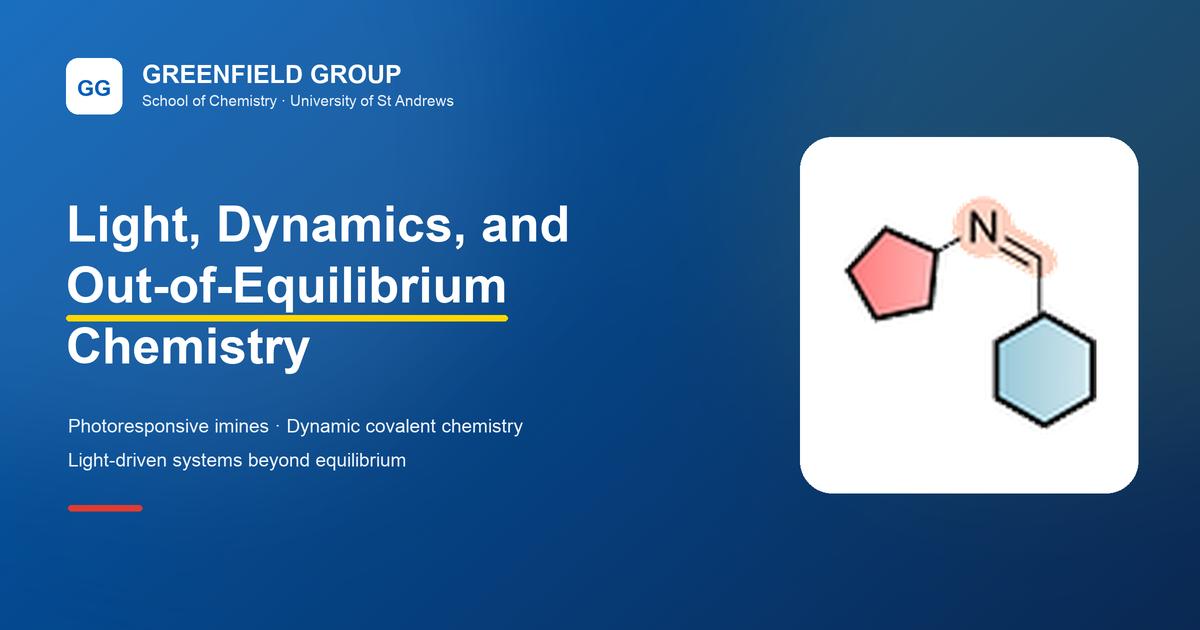
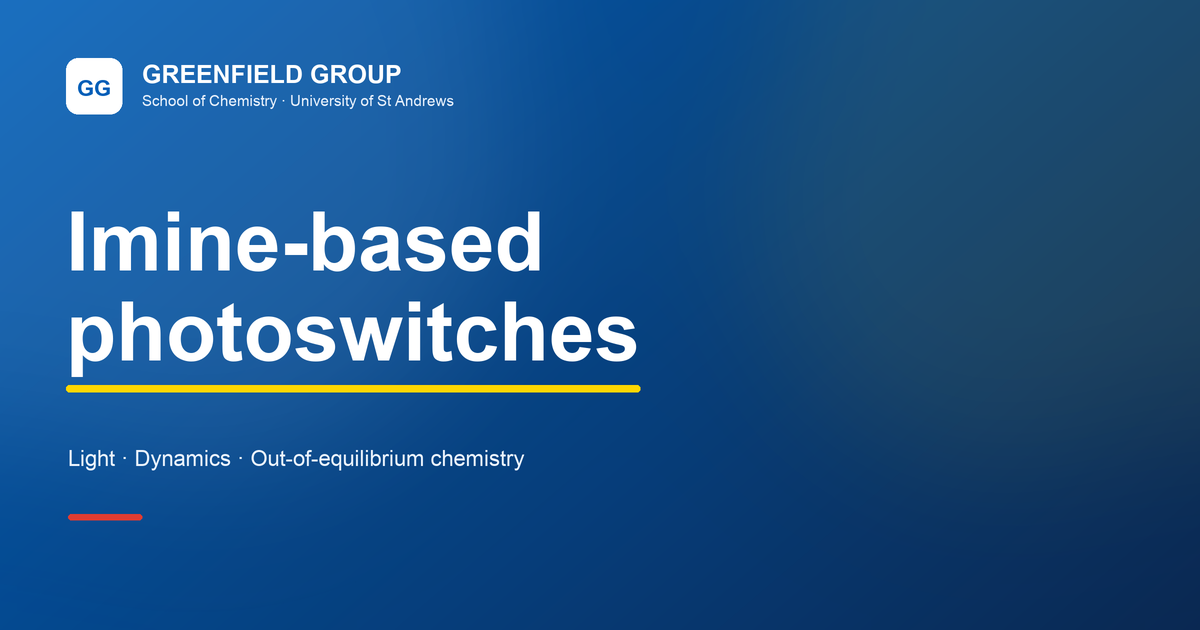
Simplify social preview

diff --git a/research.html b/research.html
@@ -14,12 +14,12 @@
   <meta property="og:image" content="https://imineswitch.com/og.png">
   <meta property="og:image:width" content="1200">
   <meta property="og:image:height" content="630">
-  <meta property="og:image:alt" content="Greenfield Group — Light, Dynamics, and Out-of-Equilibrium Chemistry">
+  <meta property="og:image:alt" content="Greenfield Group — Imine-based photoswitches">
   <meta name="twitter:card" content="summary_large_image">
   <meta name="twitter:title" content="Research — Greenfield Group">
   <meta name="twitter:description" content="Explore Greenfield Group research in imine photoswitches, out-of-equilibrium systems, and controlled molecular assembly.">
   <meta name="twitter:image" content="https://imineswitch.com/og.png">
-  <meta name="twitter:image:alt" content="Greenfield Group — Light, Dynamics, and Out-of-Equilibrium Chemistry">
+  <meta name="twitter:image:alt" content="Greenfield Group — Imine-based photoswitches">
   <link rel="icon" type="image/png" href="favicon.png?v=2">
   <script src="theme.js"></script>
   <link rel="stylesheet" href="styles.css?v=4">

diff --git a/covers.html b/covers.html
@@ -14,12 +14,12 @@
   <meta property="og:image" content="https://imineswitch.com/og.png">
   <meta property="og:image:width" content="1200">
   <meta property="og:image:height" content="630">
-  <meta property="og:image:alt" content="Greenfield Group — Light, Dynamics, and Out-of-Equilibrium Chemistry">
+  <meta property="og:image:alt" content="Greenfield Group — Imine-based photoswitches">
   <meta name="twitter:card" content="summary_large_image">
   <meta name="twitter:title" content="Covers &amp; Art — Greenfield Group">
   <meta name="twitter:description" content="Journal covers, graphics, posters, and scientific artwork created by members of the Greenfield Group.">
   <meta name="twitter:image" content="https://imineswitch.com/og.png">
-  <meta name="twitter:image:alt" content="Greenfield Group — Light, Dynamics, and Out-of-Equilibrium Chemistry">
+  <meta name="twitter:image:alt" content="Greenfield Group — Imine-based photoswitches">
   <link rel="icon" type="image/png" href="favicon.png?v=2">
   <script src="theme.js"></script>
   <link rel="stylesheet" href="styles.css?v=4">

diff --git a/join.html b/join.html
@@ -14,12 +14,12 @@
   <meta property="og:image" content="https://imineswitch.com/og.png">
   <meta property="og:image:width" content="1200">
   <meta property="og:image:height" content="630">
-  <meta property="og:image:alt" content="Greenfield Group — Light, Dynamics, and Out-of-Equilibrium Chemistry">
+  <meta property="og:image:alt" content="Greenfield Group — Imine-based photoswitches">
   <meta name="twitter:card" content="summary_large_image">
   <meta name="twitter:title" content="Join Us — Greenfield Group">
   <meta name="twitter:description" content="Information about PhD, postdoctoral, Masters, and visiting-student opportunities with the Greenfield Group.">
   <meta name="twitter:image" content="https://imineswitch.com/og.png">
-  <meta name="twitter:image:alt" content="Greenfield Group — Light, Dynamics, and Out-of-Equilibrium Chemistry">
+  <meta name="twitter:image:alt" content="Greenfield Group — Imine-based photoswitches">
   <link rel="icon" type="image/png" href="favicon.png?v=2">
   <script src="theme.js"></script>
   <link rel="stylesheet" href="styles.css?v=4">

diff --git a/people.html b/people.html
@@ -14,12 +14,12 @@
   <meta property="og:image" content="https://imineswitch.com/og.png">
   <meta property="og:image:width" content="1200">
   <meta property="og:image:height" content="630">
-  <meta property="og:image:alt" content="Greenfield Group — Light, Dynamics, and Out-of-Equilibrium Chemistry">
+  <meta property="og:image:alt" content="Greenfield Group — Imine-based photoswitches">
   <meta name="twitter:card" content="summary_large_image">
   <meta name="twitter:title" content="People — Greenfield Group">
   <meta name="twitter:description" content="Meet the researchers and collaborators in the Greenfield Group at the University of St Andrews.">
   <meta name="twitter:image" content="https://imineswitch.com/og.png">
-  <meta name="twitter:image:alt" content="Greenfield Group — Light, Dynamics, and Out-of-Equilibrium Chemistry">
+  <meta name="twitter:image:alt" content="Greenfield Group — Imine-based photoswitches">
   <link rel="icon" type="image/png" href="favicon.png?v=2">
   <script src="theme.js"></script>
   <link rel="stylesheet" href="styles.css?v=4">

diff --git a/contact.html b/contact.html
@@ -14,12 +14,12 @@
   <meta property="og:image" content="https://imineswitch.com/og.png">
   <meta property="og:image:width" content="1200">
   <meta property="og:image:height" content="630">
-  <meta property="og:image:alt" content="Greenfield Group — Light, Dynamics, and Out-of-Equilibrium Chemistry">
+  <meta property="og:image:alt" content="Greenfield Group — Imine-based photoswitches">
   <meta name="twitter:card" content="summary_large_image">
   <meta name="twitter:title" content="Contact — Greenfield Group">
   <meta name="twitter:description" content="Contact the Greenfield Group in the School of Chemistry at the University of St Andrews.">
   <meta name="twitter:image" content="https://imineswitch.com/og.png">
-  <meta name="twitter:image:alt" content="Greenfield Group — Light, Dynamics, and Out-of-Equilibrium Chemistry">
+  <meta name="twitter:image:alt" content="Greenfield Group — Imine-based photoswitches">
   <link rel="icon" type="image/png" href="favicon.png?v=2">
   <script src="theme.js"></script>
   <link rel="stylesheet" href="styles.css?v=4">

diff --git a/news.html b/news.html
@@ -14,12 +14,12 @@
   <meta property="og:image" content="https://imineswitch.com/og.png">
   <meta property="og:image:width" content="1200">
   <meta property="og:image:height" content="630">
-  <meta property="og:image:alt" content="Greenfield Group — Light, Dynamics, and Out-of-Equilibrium Chemistry">
+  <meta property="og:image:alt" content="Greenfield Group — Imine-based photoswitches">
   <meta name="twitter:card" content="summary_large_image">
   <meta name="twitter:title" content="News — Greenfield Group">
   <meta name="twitter:description" content="News, awards, publications, talks, and other updates from the Greenfield Group.">
   <meta name="twitter:image" content="https://imineswitch.com/og.png">
-  <meta name="twitter:image:alt" content="Greenfield Group — Light, Dynamics, and Out-of-Equilibrium Chemistry">
+  <meta name="twitter:image:alt" content="Greenfield Group — Imine-based photoswitches">
   <link rel="icon" type="image/png" href="favicon.png?v=2">
   <script src="theme.js"></script>
   <link rel="stylesheet" href="styles.css?v=4">

diff --git a/publications.html b/publications.html
@@ -14,12 +14,12 @@
   <meta property="og:image" content="https://imineswitch.com/og.png">
   <meta property="og:image:width" content="1200">
   <meta property="og:image:height" content="630">
-  <meta property="og:image:alt" content="Greenfield Group — Light, Dynamics, and Out-of-Equilibrium Chemistry">
+  <meta property="og:image:alt" content="Greenfield Group — Imine-based photoswitches">
   <meta name="twitter:card" content="summary_large_image">
   <meta name="twitter:title" content="Publications — Greenfield Group">
   <meta name="twitter:description" content="Research publications from the Greenfield Group and collaborators.">
   <meta name="twitter:image" content="https://imineswitch.com/og.png">
-  <meta name="twitter:image:alt" content="Greenfield Group — Light, Dynamics, and Out-of-Equilibrium Chemistry">
+  <meta name="twitter:image:alt" content="Greenfield Group — Imine-based photoswitches">
   <link rel="icon" type="image/png" href="favicon.png?v=2">
   <script src="theme.js"></script>
   <link rel="stylesheet" href="styles.css?v=4">

diff --git a/index.html b/index.html
@@ -15,12 +15,12 @@
   <meta property="og:image" content="https://imineswitch.com/og.png">
   <meta property="og:image:width" content="1200">
   <meta property="og:image:height" content="630">
-  <meta property="og:image:alt" content="Greenfield Group — Light, Dynamics, and Out-of-Equilibrium Chemistry">
+  <meta property="og:image:alt" content="Greenfield Group — Imine-based photoswitches">
   <meta name="twitter:card" content="summary_large_image">
   <meta name="twitter:title" content="Greenfield Group — University of St Andrews">
   <meta name="twitter:description" content="Photoresponsive imines, molecular switches, and dynamic covalent systems beyond equilibrium.">
   <meta name="twitter:image" content="https://imineswitch.com/og.png">
-  <meta name="twitter:image:alt" content="Greenfield Group — Light, Dynamics, and Out-of-Equilibrium Chemistry">
+  <meta name="twitter:image:alt" content="Greenfield Group — Imine-based photoswitches">
   <script src="theme.js"></script>
   <link rel="stylesheet" href="styles.css?v=4">
 </head>

diff --git a/alumni.html b/alumni.html
@@ -14,12 +14,12 @@
 <meta property="og:image" content="https://imineswitch.com/og.png">
 <meta property="og:image:width" content="1200">
 <meta property="og:image:height" content="630">
-<meta property="og:image:alt" content="Greenfield Group — Light, Dynamics, and Out-of-Equilibrium Chemistry">
+<meta property="og:image:alt" content="Greenfield Group — Imine-based photoswitches">
 <meta name="twitter:card" content="summary_large_image">
 <meta name="twitter:title" content="Alumni — Greenfield Group">
 <meta name="twitter:description" content="Former Greenfield Group members, their projects, and where they are now.">
 <meta name="twitter:image" content="https://imineswitch.com/og.png">
-<meta name="twitter:image:alt" content="Greenfield Group — Light, Dynamics, and Out-of-Equilibrium Chemistry">
+<meta name="twitter:image:alt" content="Greenfield Group — Imine-based photoswitches">
 <link rel="icon" type="image/png" href="favicon.png?v=2">
 <script src="theme.js"></script>
 <link rel="stylesheet" href="styles.css?v=4">
